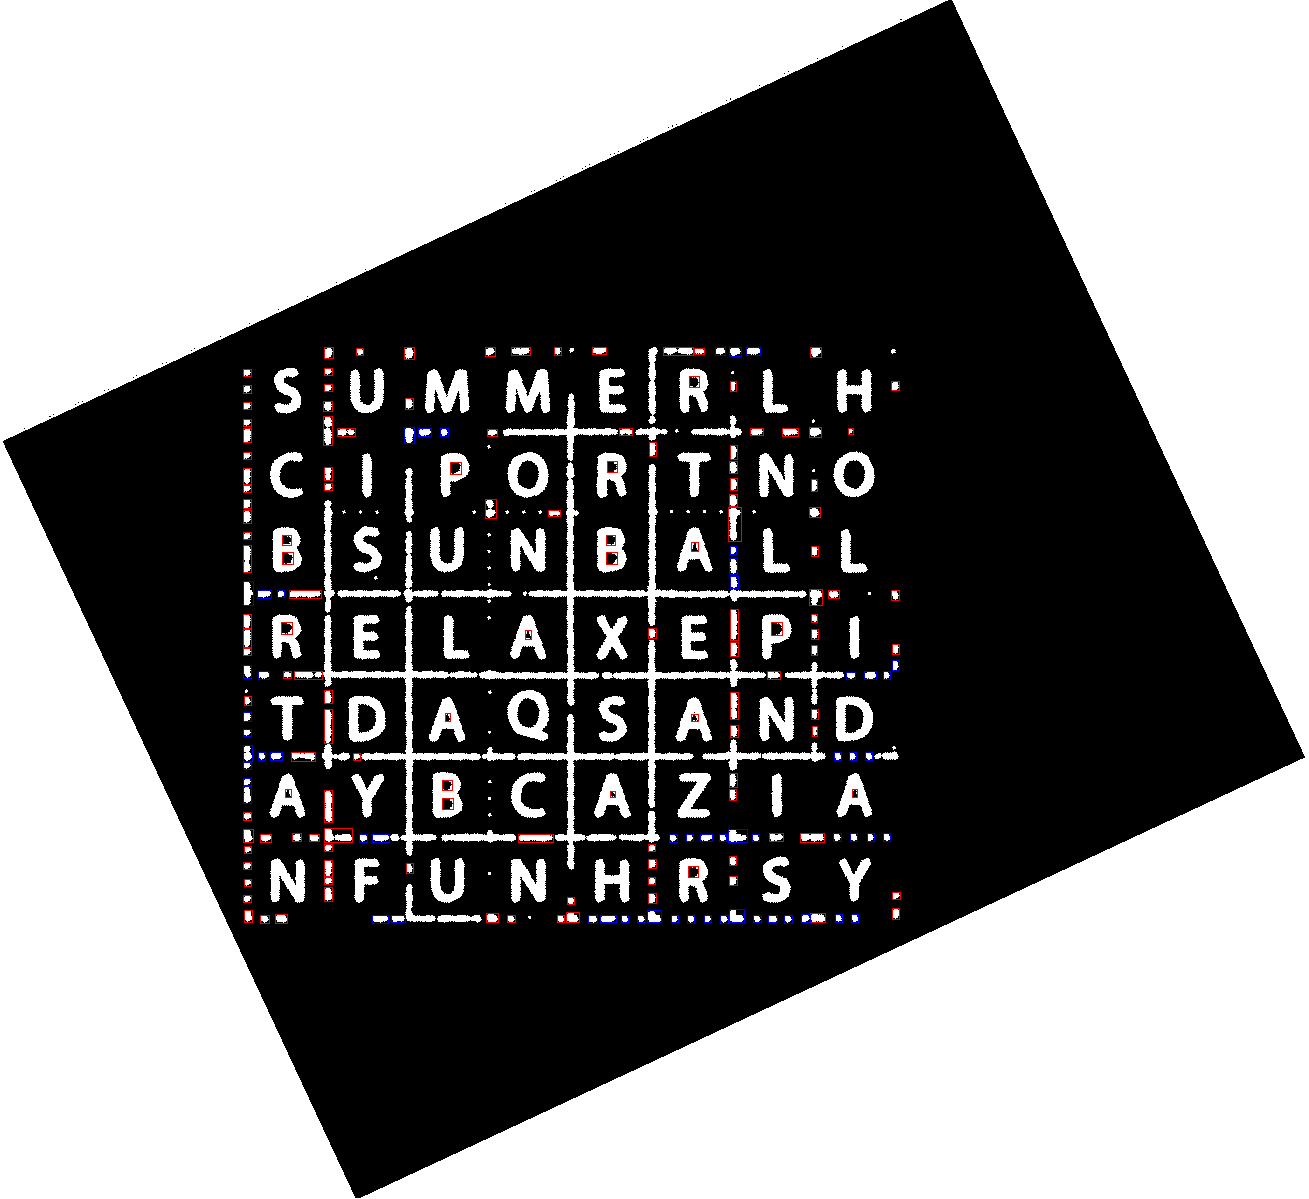
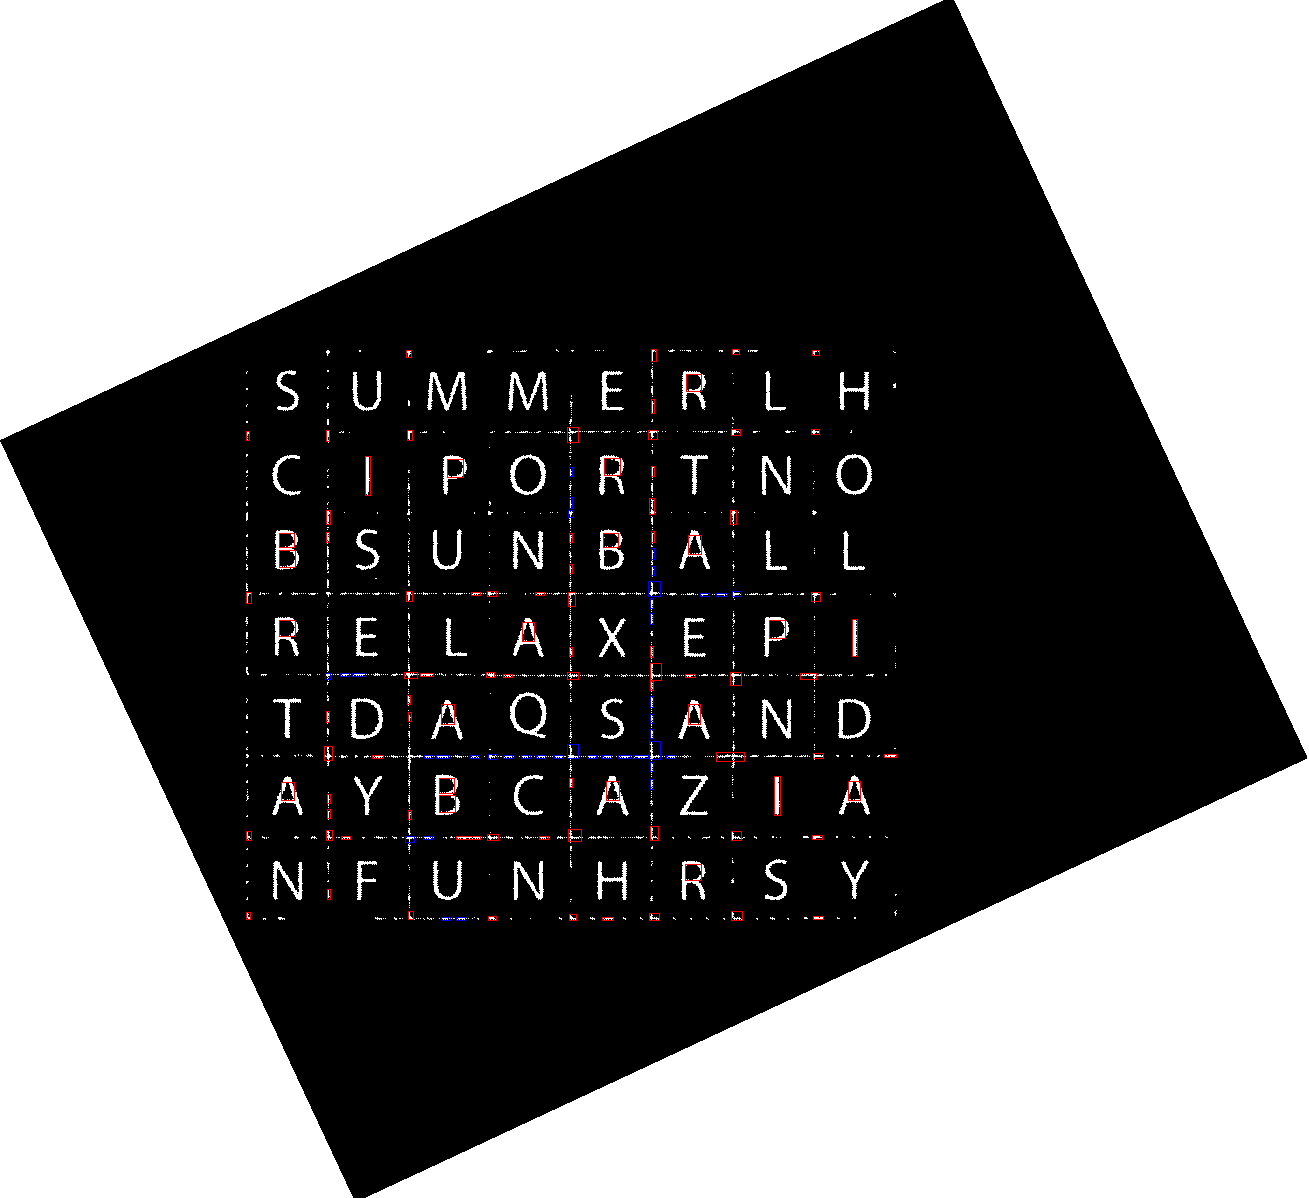
everyrhingworks

diff --git a/UI/main.c b/UI/main.c
@@ -149,7 +149,7 @@ void image_button(GtkWidget* widget, gpointer data)
                     run_pretreatment(&backgroundImage, 4, angle);
                     const char* outputPath = "data/post_PRT.png";
                     
-                    if (IMG_SavePNG(backgroundImage, outputPath) != NULL) 
+                    if (backgroundImage) 
                     {
                         printf("SDL surface saved to: %s\n", outputPath);
                         displayedimage = outputPath;
@@ -183,7 +183,7 @@ void image_button(GtkWidget* widget, gpointer data)
         SDL_Surface* backgroundImage = IMG_Load(displayedimage);
         if (backgroundImage) 
         {
-            run_pretreatment(&backgroundImage, 4, 0);
+            run_pretreatment(&backgroundImage, 5, 0);
             const char* outputPath = "data/post_PRT.png";
             
             if (backgroundImage) 
